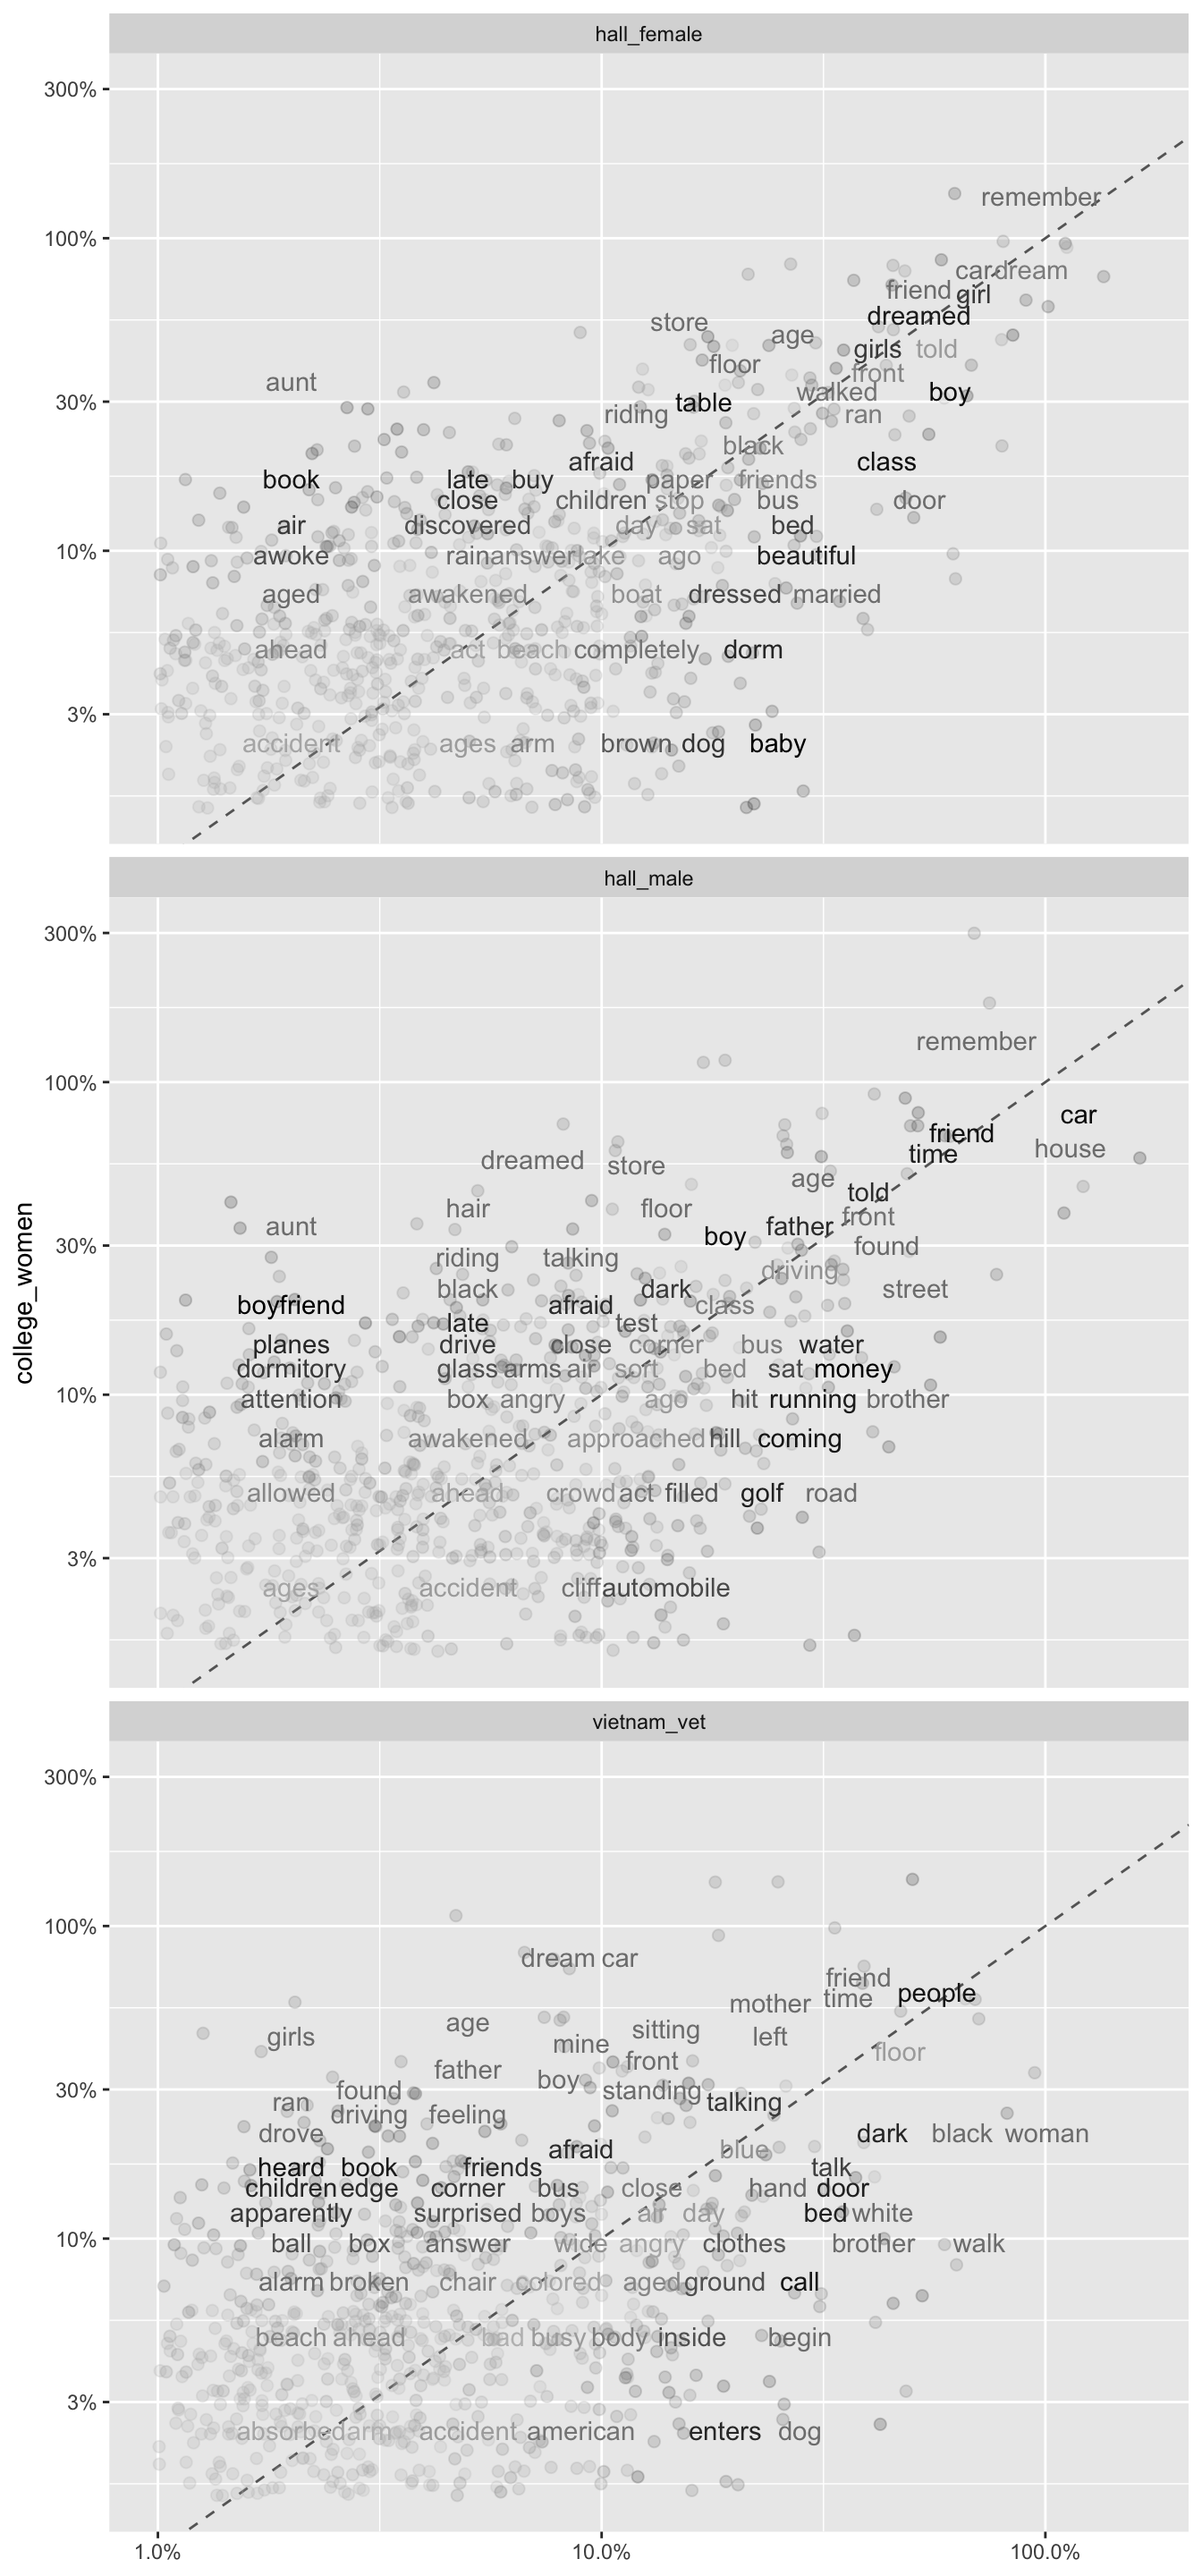
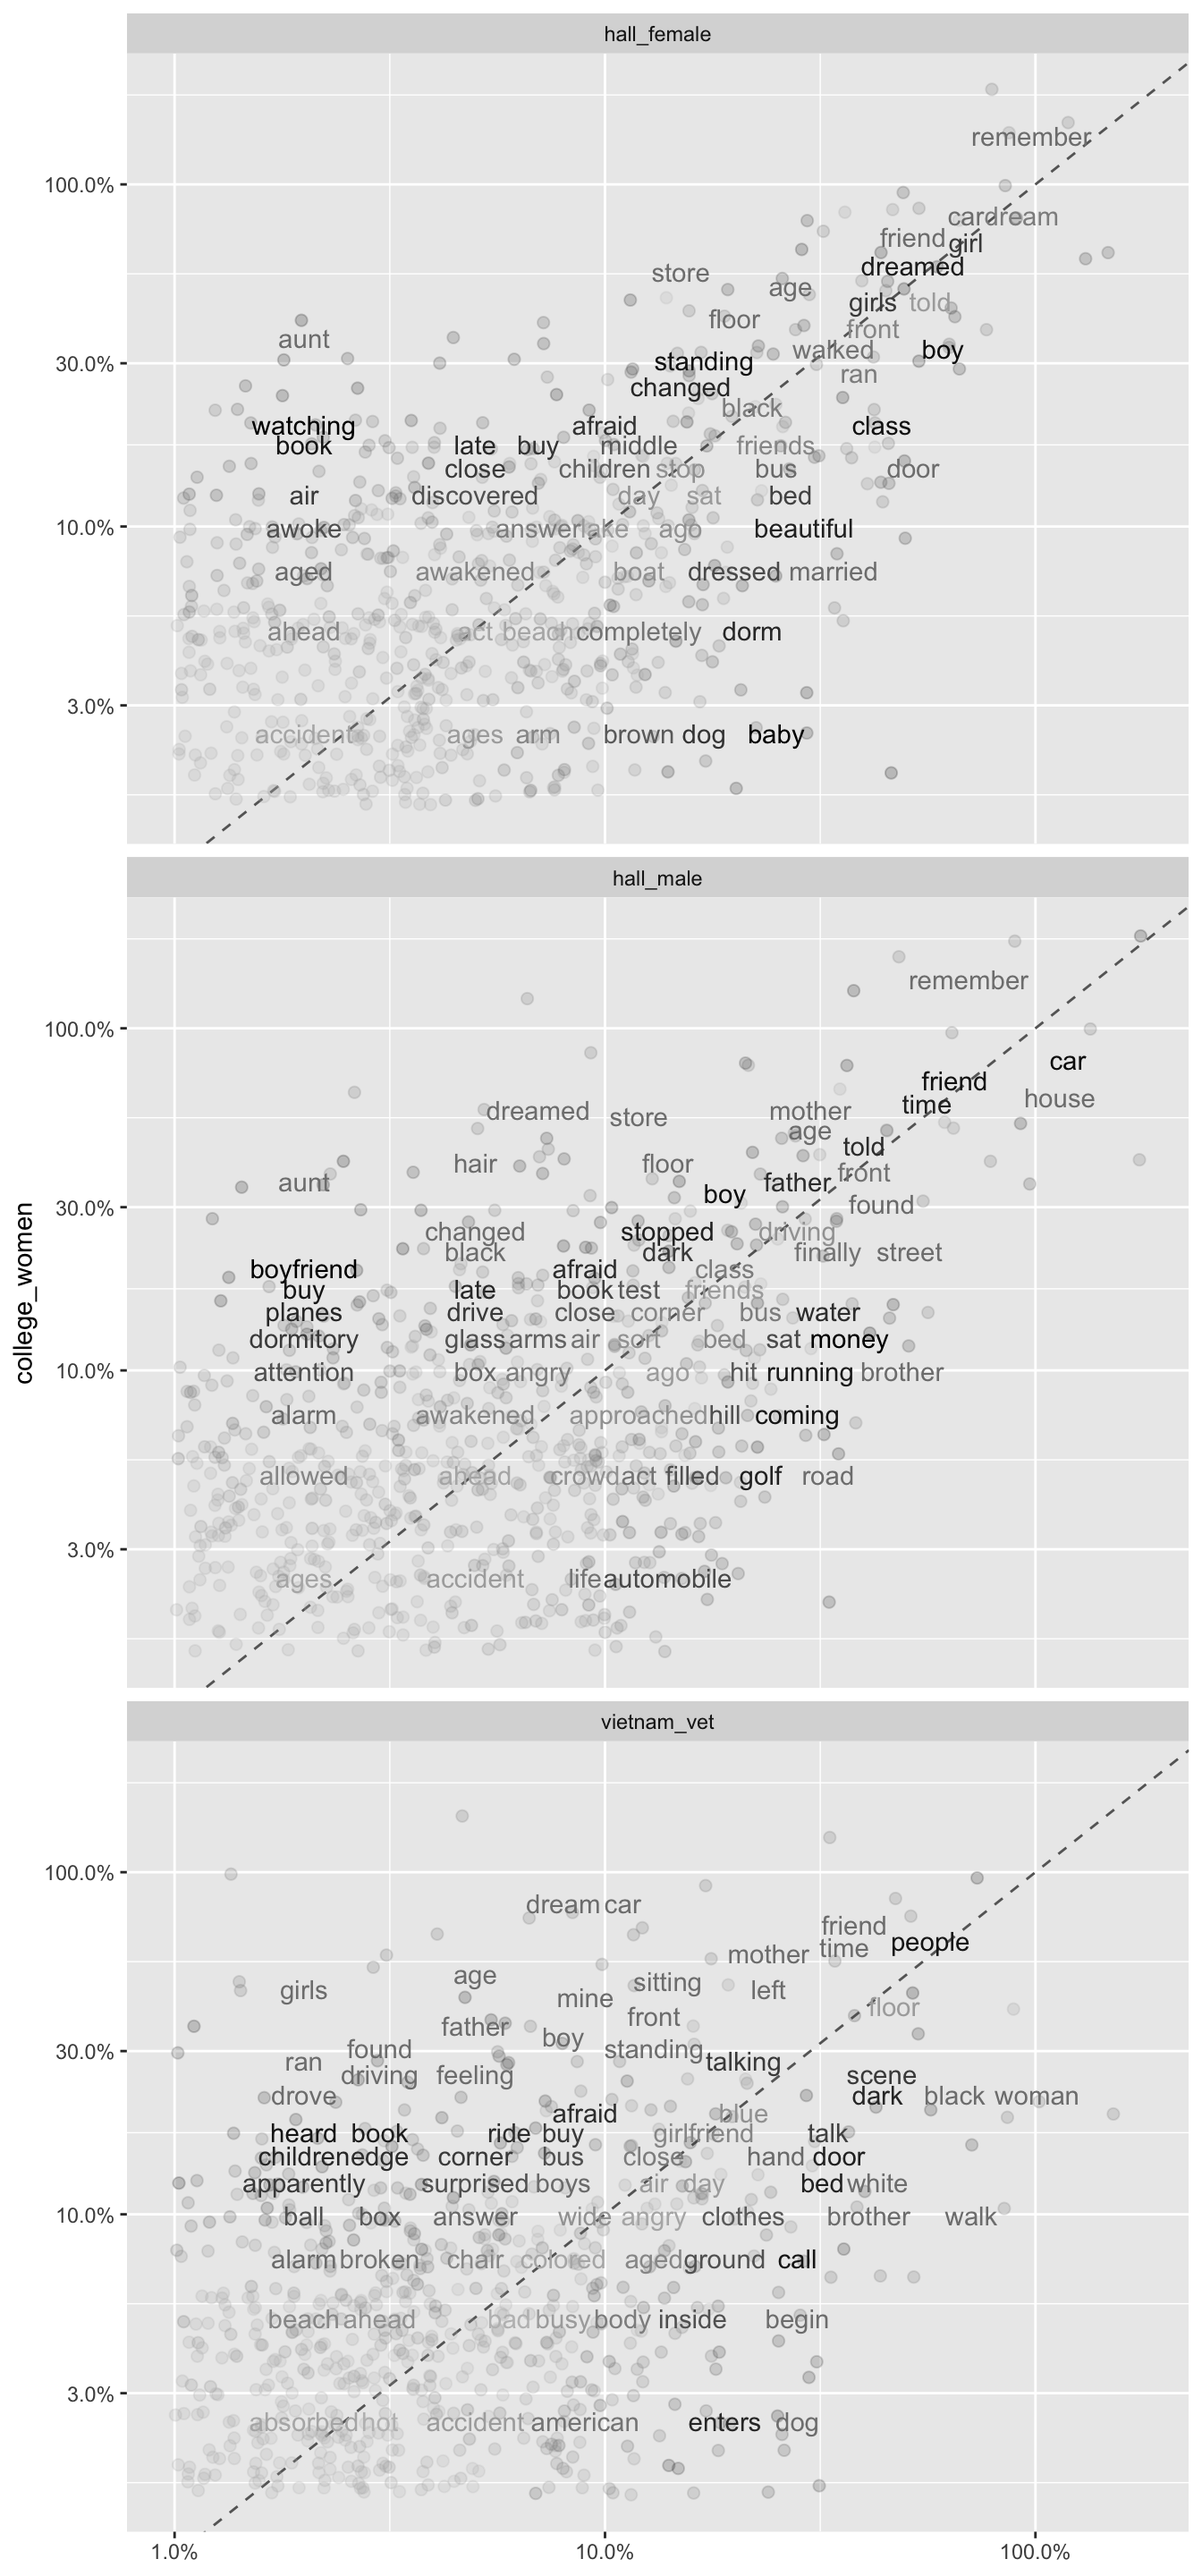
[permalinks]   blog = "/blog/:filename:"

Changed region(s): [[0.0312, 0.0, 0.9375, 1.0], [0.8438, 0.5312, 0.875, 0.625], [0.5, 0.0, 0.5938, 0.0312]]

diff --git a/public/post/manipulating-text-data-from-dreams/index.html b/public/post/manipulating-text-data-from-dreams/index.html
@@ -548,16 +548,16 @@ df$sample &lt;- as.factor(df$sample)</code></pre>
 car::some(df) %&gt;%
   custom_view()</code></pre>
 <pre><code>##           sample                                                    dream
-## 1  college_women I dreamed I was with a crowd of school girls getting in 
-## 2  college_women I dreamed that the Society for the Blind had given my gr
-## 3    vietnam_vet I&#39;m in an enormous building, a sort of jail, with walls 
-## 4    vietnam_vet I enter the second floor of Dave B&#39;s apartment. Among th
-## 5      hall_male I got up from bed to go to class. I found myself climbin
-## 6      hall_male A group of fellows and I were on our way to a baseball g
-## 7      hall_male I was playing catch with Al (my frat brother) on a paved
-## 8    hall_female Our family doctor (a good friend of ours), his wife, and
-## 9    hall_female I had just returned from a vacation or somewhere to my c
-## 10   hall_female It seems I was in some small office. I know I was workin</code></pre>
+## 1  college_women I dreamed about my first boyfriend whom I had gone with 
+## 2  college_women I was in a large modern hamburger stand. I was waiting f
+## 3  college_women I had a job in some sort of plant (factory) and I worked
+## 4    vietnam_vet I&#39;m one of several passengers in a small plane flying hi
+## 5    vietnam_vet I&#39;m sitting in a booth at a well lit uncrowded diner. Tw
+## 6    vietnam_vet With two homeless women I share a below street level spa
+## 7      hall_male I needed money and sought to regain money which someone 
+## 8      hall_male I was seated at a card table playing poker with three ot
+## 9      hall_male I dreamed that two people I didn&#39;t know and myself went 
+## 10   hall_female I was going to a baseball game at the stadium. I was to</code></pre>
 <p><img src="../../img/tidytext.png" width="25%" /></p>
 <p>Julia Silge and David Robinson’s book <strong>Text Mining with R - A tidy approach</strong> sets off at a cracking pace, at least for relatively newbies to R such as myself. They assumes a degree of familiarity with tidyverse concepts and when they introduce concepts such as tidytext format, they can sometimes address three or four steps in one example. I will unpack some of these as individual steps to illustrate what is going on, while using our dream data as the material for processing.</p>
 <p>At the moment our df only contains the sample name (a categorical variable with four values) and the text of the dream. It might be helpful to index the dreams before we tokenise the text in them. So let’s introduce a new variable that we will call dream_number. This will index each dream between 1 - 400 in the dataframe.</p>

diff --git a/public/post/using-tidytext-to-compare-samples-of-dreams/index.html b/public/post/using-tidytext-to-compare-samples-of-dreams/index.html
@@ -555,18 +555,18 @@ library(car)</code></pre>
   filter(!is.na(college_women) &amp; !is.na(hall_female) &amp; !is.na(hall_male) &amp; !is.na(vietnam_vet)) %&gt;%
   some()</code></pre>
 <pre><code>## # A tibble: 10 x 5
-##    word      college_women hall_female hall_male vietnam_vet
-##    &lt;chr&gt;             &lt;dbl&gt;       &lt;dbl&gt;     &lt;dbl&gt;       &lt;dbl&gt;
-##  1 attending          0.03        0.02      0.02       0.06 
-##  2 bare               0.06        0.05      0.05       0.06 
-##  3 dropped            0.03        0.07      0.02       0.02 
-##  4 people             0.76        0.61      0.56       0.570
-##  5 playing            0.15        0.27      0.16       0.03 
-##  6 pretty             0.03        0.05      0.02       0.05 
-##  7 putting            0.09        0.05      0.02       0.02 
-##  8 question           0.03        0.02      0.09       0.13 
-##  9 raining            0.03        0.05      0.05       0.08 
-## 10 watch              0.06        0.02      0.02       0.11</code></pre>
+##    word     college_women hall_female hall_male vietnam_vet
+##    &lt;chr&gt;            &lt;dbl&gt;       &lt;dbl&gt;     &lt;dbl&gt;       &lt;dbl&gt;
+##  1 answer            0.12        0.07      0.12       0.05 
+##  2 forest            0.12        0.02      0.09       0.05 
+##  3 grade             0.15        0.07      0.02       0.02 
+##  4 ice               0.03        0.05      0.07       0.05 
+##  5 machine           0.09        0.02      0.14       0.06 
+##  6 people            0.76        0.61      0.56       0.570
+##  7 putting           0.09        0.05      0.02       0.02 
+##  8 summer            0.12        0.07      0.05       0.05 
+##  9 surprise          0.06        0.02      0.02       0.02 
+## 10 teacher           0.27        0.15      0.12       0.13</code></pre>
 <p>Then the next step is to decide which sample is going to be our reference sample. This will have its column of frequencies replicated and stacked so that each of the other samples can be compared with it. When we <em>gather()</em>, we only include the samples to compare with the reference and not the reference itself. For simplicity, we can use the first column in our df (college_women) as our reference group and compare the other three samples to this. We might predict at this point that the hall_women will have the most similar dreams and then the hall_men, with the vietnam_vet being the most different. We can check this prediction later on when we run some correlation coefficients.</p>
 <pre class="r"><code>df_gather &lt;- df_spread %&gt;%
   gather(sample, proportion, hall_female:vietnam_vet)</code></pre>
